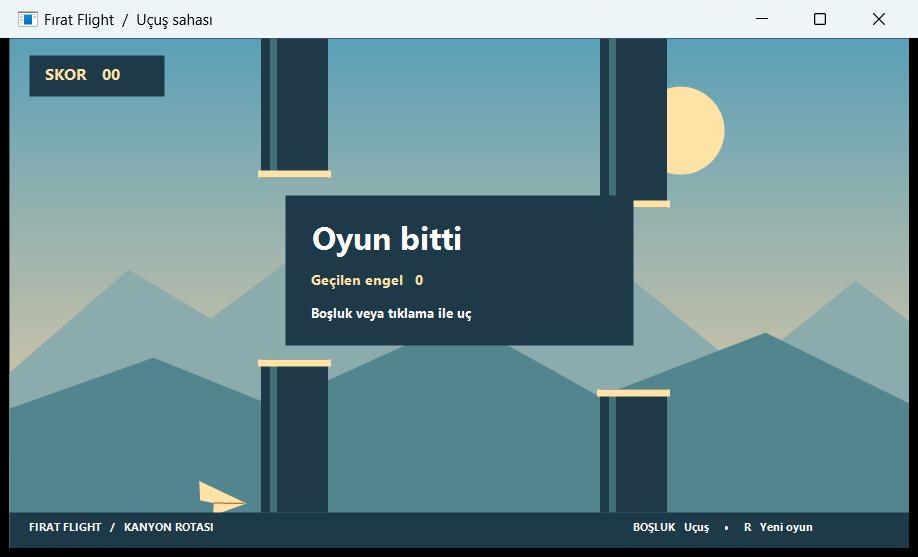
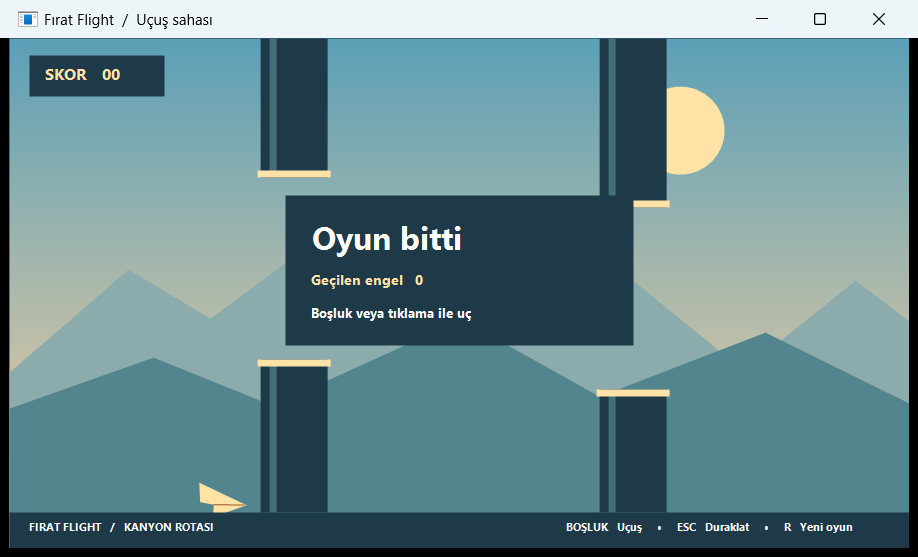
Yeni kullanım adımlarını ve güncel pencere görüntülerini belgele

Changed region(s): [[0.61, 0.9156, 0.9455, 0.9767], [0.2135, 0.8546, 0.2745, 0.9156]]

diff --git a/README.md b/README.md
@@ -28,6 +28,8 @@ Visual Studio'da .NET 10 destekli bir sürüm ve **.NET masaüstü geliştirme**
 2. Üst ve alt kulelerin arasından geçin. Her geçit bir puandır. Ekrandan çıkan geçit farklı yükseklikte geri gelir.
 3. Tavana, zemine veya kuleye çarpınca uçuş biter. **R** başlangıç ekranına döner. Oyun sonu ekranında boşluk veya tık doğrudan yeni uçuşu başlatır.
 
+Esc uçuşu duraklatır. Başka pencereye geçtiğinizde oyun otomatik duraklar. Boşluk veya tıklama konum ve hızı koruyarak uçuşu sürdürür. Durgun ekranlarda oyun zamanlayıcısı kapanır.
+
 ## Sınıflar ve sorumluluklar
 
 `Flight` yer çekimini, hızı, skoru ve oyun durumunu yönetir. `Gate` açıklığın konumunu ve o geçidin puanlanıp puanlanmadığını tutar. `MainForm` klavye ve fare olaylarını modele iletir. Timer geçen süreyle modeli ilerletir. Çizim, sabit oyun alanını pencereye orantılı ölçekler.
